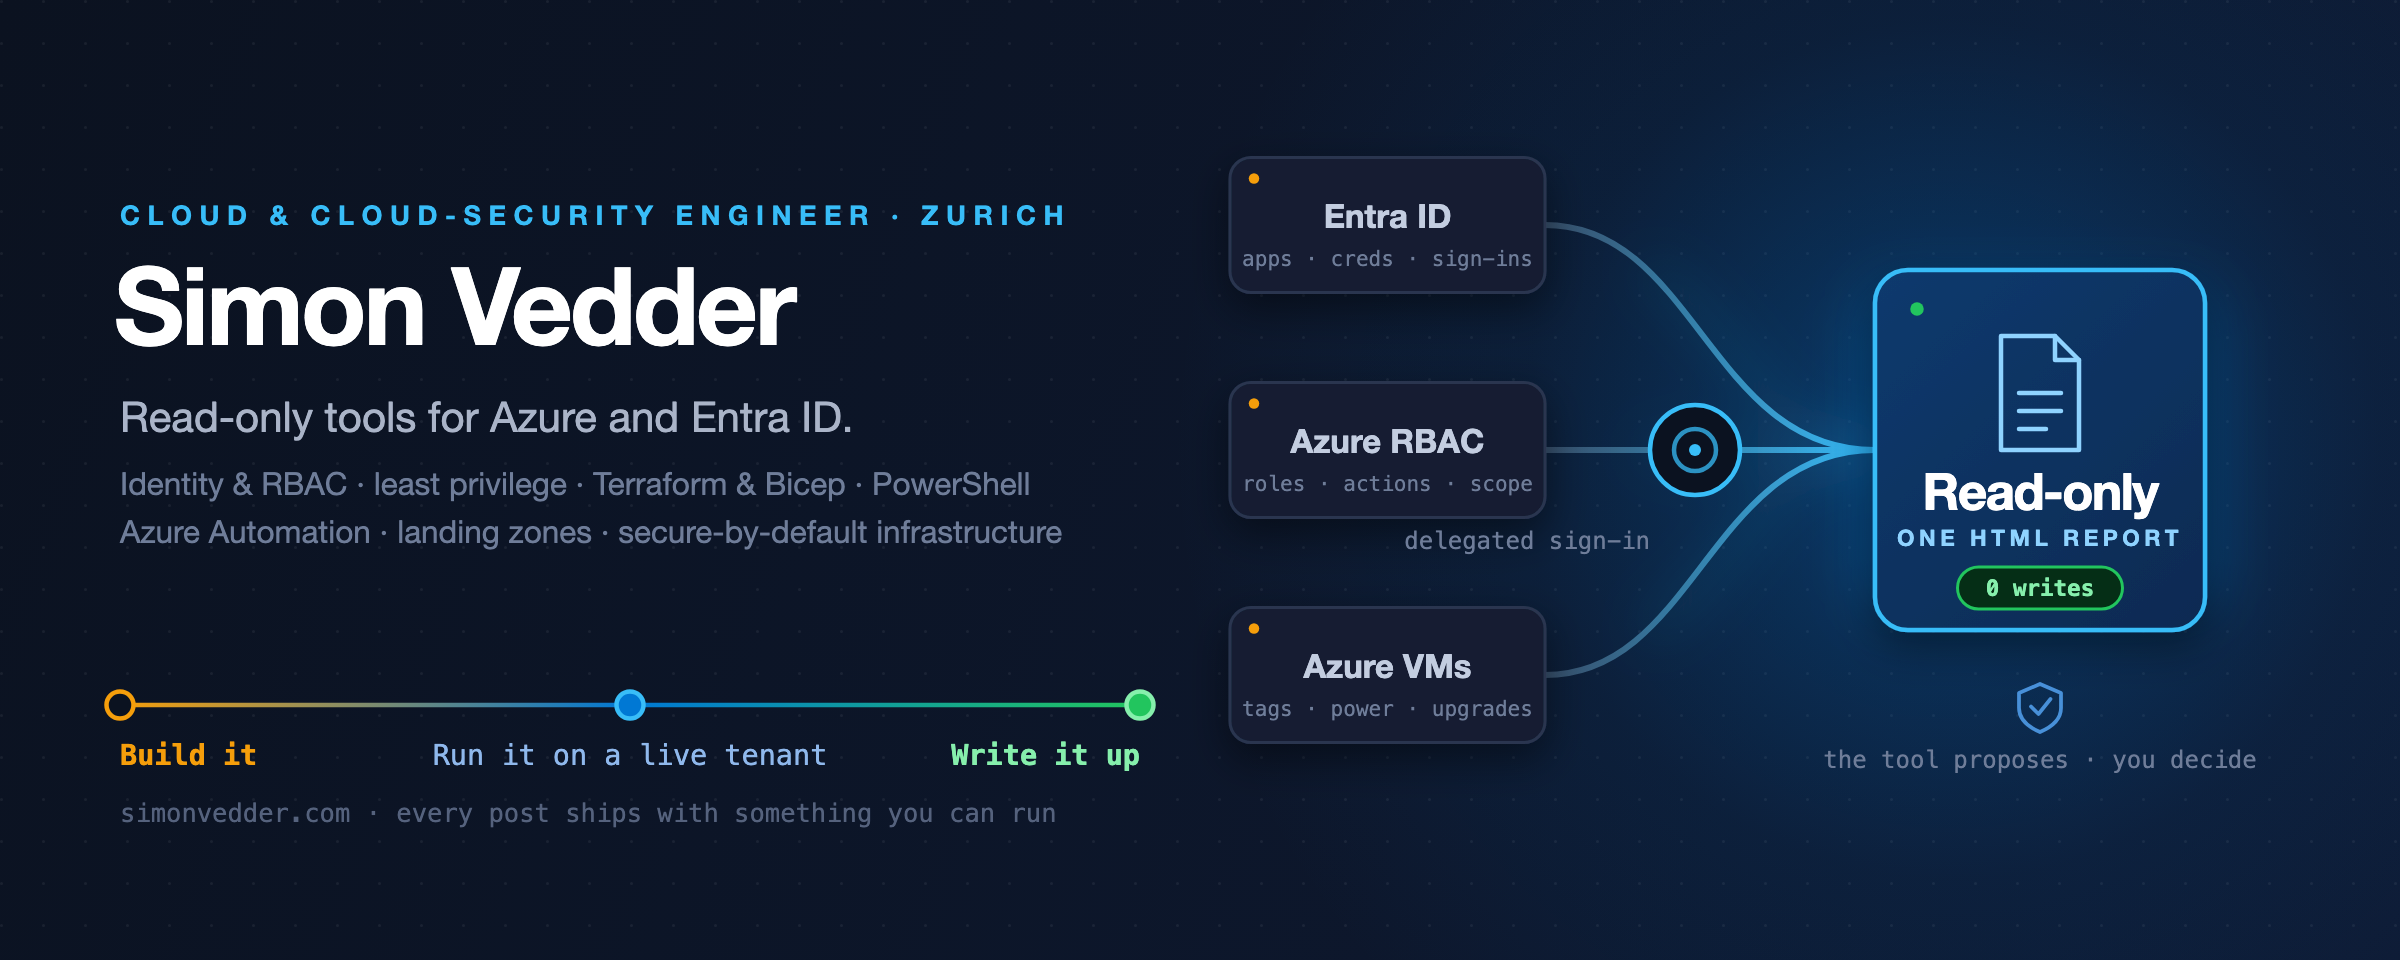
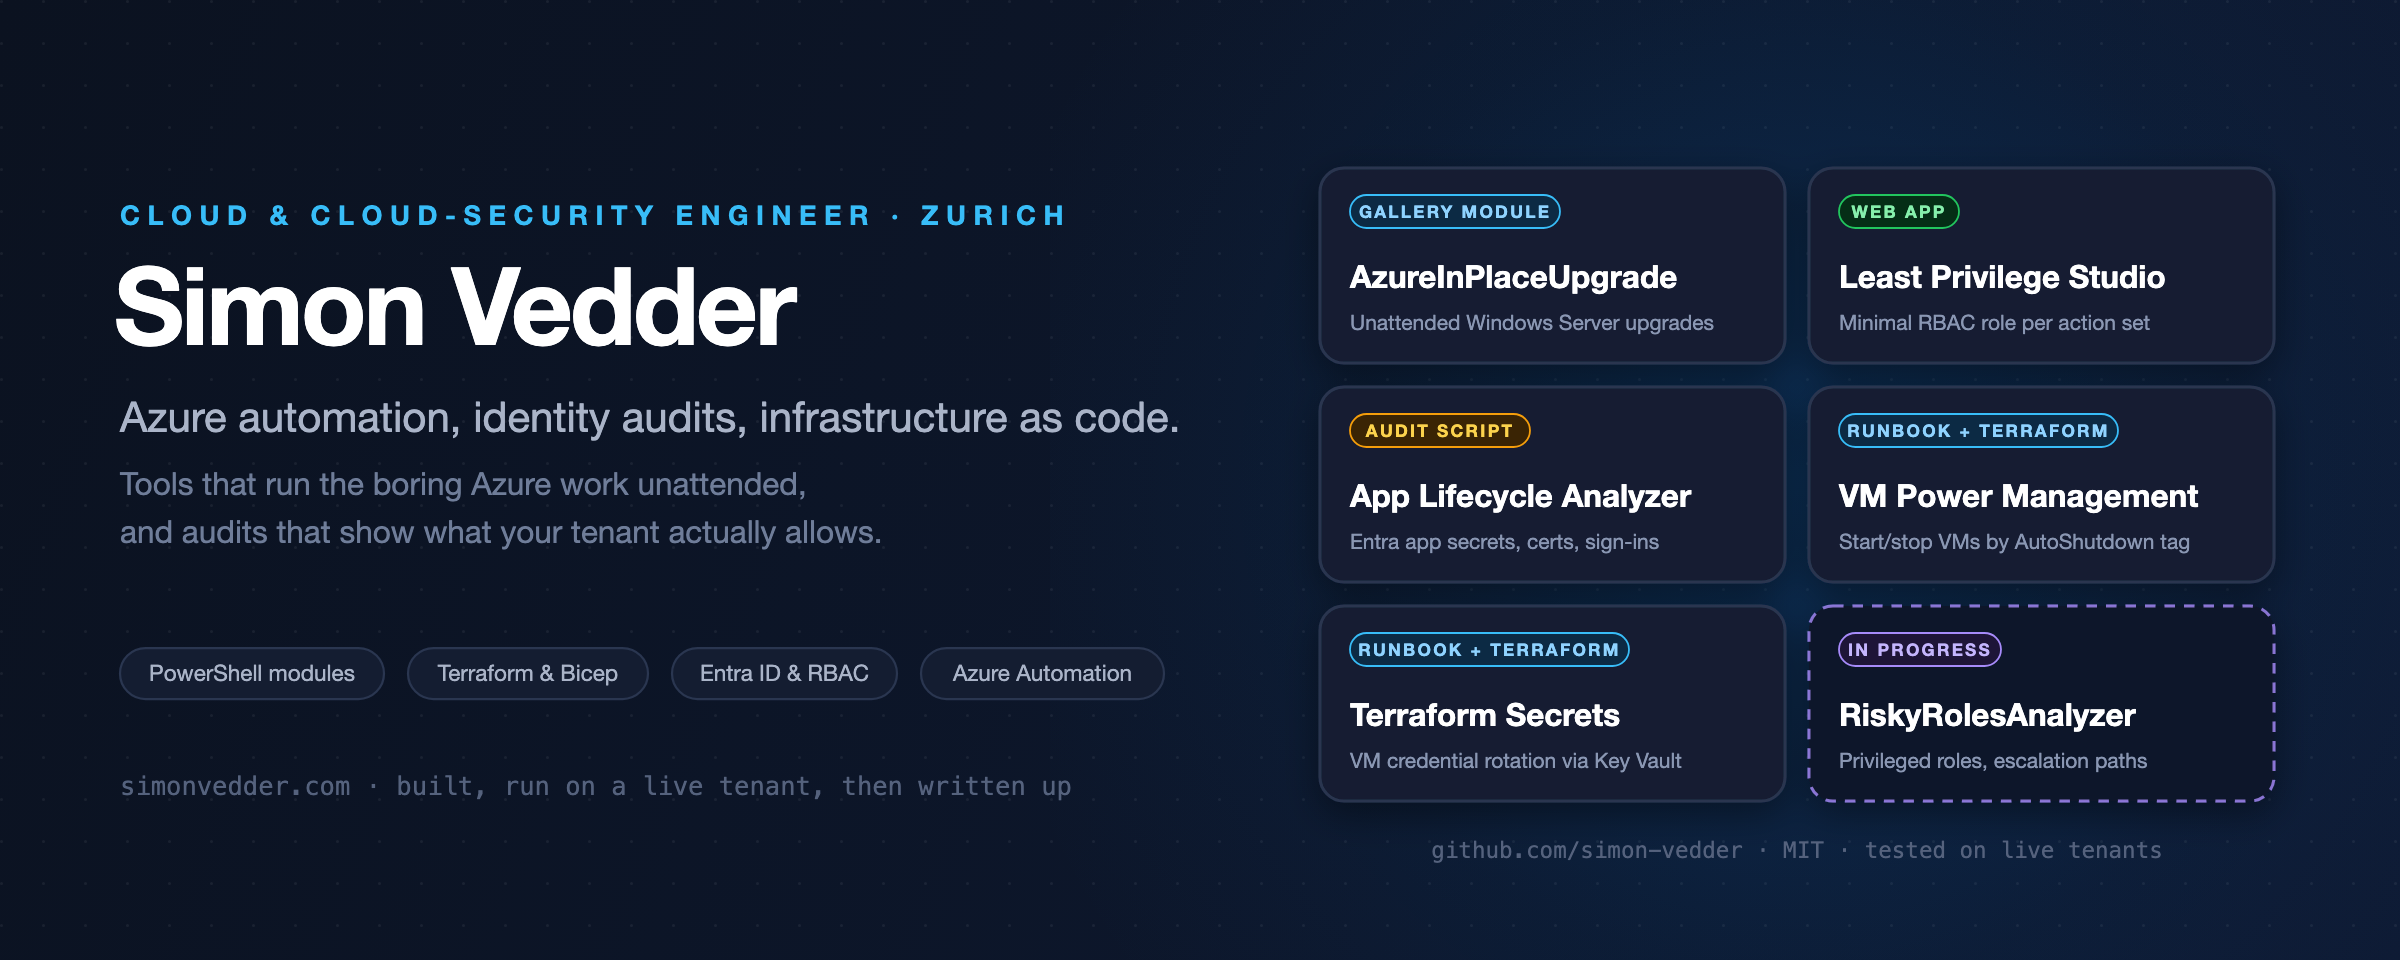
Profile hero v2: portfolio tile grid instead of the tool-hero composition
- Six tiles (Gallery module, web app, audit script, runbook + Terraform, in progress) show the range
- Positioning corrected: automation and audits, not read-only only; README intro and alt text match

diff --git a/docs/images/hero.source.html b/docs/images/hero.source.html
@@ -9,120 +9,94 @@
 </style></head>
 <body>
 <svg xmlns="http://www.w3.org/2000/svg" width="1600" height="640" viewBox="0 0 1600 640">
-
   <defs>
-    <radialGradient id="glow" cx="1300" cy="300" r="520" gradientUnits="userSpaceOnUse">
-      <stop offset="0" stop-color="#0078d4" stop-opacity="0.38"/>
-      <stop offset="0.55" stop-color="#0078d4" stop-opacity="0.08"/>
-      <stop offset="1" stop-color="#0078d4" stop-opacity="0"/>
-    </radialGradient>
     <linearGradient id="bg" x1="0" y1="0" x2="1600" y2="640" gradientUnits="userSpaceOnUse">
       <stop offset="0" stop-color="#0b1220"/>
       <stop offset="1" stop-color="#0e1a33"/>
     </linearGradient>
-    <linearGradient id="beam" x1="1010" y1="0" x2="1250" y2="0" gradientUnits="userSpaceOnUse">
-      <stop offset="0" stop-color="#3b4a63" stop-opacity="0.9"/>
-      <stop offset="1" stop-color="#38bdf8" stop-opacity="1"/>
-    </linearGradient>
-    <linearGradient id="target" x1="1250" y1="180" x2="1470" y2="420" gradientUnits="userSpaceOnUse">
-      <stop offset="0" stop-color="#0f3a6e"/>
-      <stop offset="1" stop-color="#0b2a52"/>
-    </linearGradient>
-    <linearGradient id="chain" x1="80" y1="0" x2="760" y2="0" gradientUnits="userSpaceOnUse">
-      <stop offset="0" stop-color="#f59e0b"/>
-      <stop offset="0.5" stop-color="#0078d4"/>
-      <stop offset="1" stop-color="#22c55e"/>
-    </linearGradient>
+    <radialGradient id="glow" cx="1200" cy="320" r="560" gradientUnits="userSpaceOnUse">
+      <stop offset="0" stop-color="#0078d4" stop-opacity="0.22"/>
+      <stop offset="0.6" stop-color="#0078d4" stop-opacity="0.05"/>
+      <stop offset="1" stop-color="#0078d4" stop-opacity="0"/>
+    </radialGradient>
     <pattern id="dots" width="28" height="28" patternUnits="userSpaceOnUse">
       <circle cx="1" cy="1" r="1" fill="#ffffff" fill-opacity="0.06"/>
     </pattern>
-    <filter id="soft" x="-50%" y="-50%" width="200%" height="200%"><feGaussianBlur stdDeviation="18"/></filter>
     <filter id="shadow" x="-20%" y="-20%" width="140%" height="140%">
-      <feDropShadow dx="0" dy="10" stdDeviation="14" flood-color="#000" flood-opacity="0.45"/>
+      <feDropShadow dx="0" dy="8" stdDeviation="12" flood-color="#000" flood-opacity="0.4"/>
     </filter>
   </defs>
 
   <rect width="1600" height="640" fill="url(#bg)"/>
   <rect width="1600" height="640" fill="url(#dots)"/>
+  <rect x="700" y="-200" width="1000" height="1000" fill="url(#glow)"/>
 
-  <!-- left: positioning -->
+  <!-- left: who -->
   <text x="80" y="150" fill="#38bdf8" font-size="18" font-weight="700" letter-spacing="5">CLOUD  &amp;  CLOUD-SECURITY ENGINEER  ·  ZURICH</text>
   <text x="76" y="230" fill="#ffffff" font-size="72" font-weight="800" letter-spacing="-2">Simon Vedder</text>
-  <text x="80" y="288" fill="#aab4c8" font-size="28" font-weight="400">Read-only tools for Azure and Entra ID.</text>
-  <text x="80" y="330" fill="#6f7d99" font-size="21">Identity &amp; RBAC · least privilege · Terraform &amp; Bicep · PowerShell</text>
-  <text x="80" y="362" fill="#6f7d99" font-size="21">Azure Automation · landing zones · secure-by-default infrastructure</text>
+  <text x="80" y="288" fill="#aab4c8" font-size="28">Azure automation, identity audits, infrastructure as code.</text>
+  <text x="80" y="330" fill="#6f7d99" font-size="21">Tools that run the boring Azure work unattended,</text>
+  <text x="80" y="362" fill="#6f7d99" font-size="21">and audits that show what your tenant actually allows.</text>
 
-  <!-- bottom-left: the process -->
-  <g class="mono" font-size="19">
-    <line x1="80" y1="470" x2="760" y2="470" stroke="url(#chain)" stroke-width="3" stroke-linecap="round"/>
-    <circle cx="80" cy="470" r="9" fill="#0b1220" stroke="#f59e0b" stroke-width="3"/>
-    <text x="80" y="510" fill="#f59e0b" text-anchor="start" font-weight="600">Build it</text>
-    <circle cx="420" cy="470" r="9" fill="#0078d4" stroke="#38bdf8" stroke-width="3"/>
-    <text x="420" y="510" fill="#8fb8ec" text-anchor="middle">Run it on a live tenant</text>
-    <circle cx="760" cy="470" r="9" fill="#22c55e" stroke="#86efac" stroke-width="3"/>
-    <text x="760" y="510" fill="#86efac" text-anchor="end" font-weight="600">Write it up</text>
-    <text x="80" y="548" fill="#55627d" font-size="17">simonvedder.com · every post ships with something you can run</text>
+  <!-- left: stack pills -->
+  <g font-size="15" fill="#aab4c8" text-anchor="middle">
+    <rect x="80" y="432" width="176" height="34" rx="17" fill="#141d31" stroke="#2a3650" stroke-width="1.5"/>
+    <text x="168" y="454">PowerShell modules</text>
+    <rect x="272" y="432" width="160" height="34" rx="17" fill="#141d31" stroke="#2a3650" stroke-width="1.5"/>
+    <text x="352" y="454">Terraform &amp; Bicep</text>
+    <rect x="448" y="432" width="150" height="34" rx="17" fill="#141d31" stroke="#2a3650" stroke-width="1.5"/>
+    <text x="523" y="454">Entra ID &amp; RBAC</text>
+    <rect x="614" y="432" width="162" height="34" rx="17" fill="#141d31" stroke="#2a3650" stroke-width="1.5"/>
+    <text x="695" y="454">Azure Automation</text>
+  </g>
+  <text x="80" y="530" fill="#55627d" font-size="17" class="mono">simonvedder.com · built, run on a live tenant, then written up</text>
+
+  <!-- right: the shelf -->
+  <g id="tiles" filter="url(#shadow)">
+    <rect x="880" y="112" width="310" height="130" rx="16" fill="#141d31" stroke="#2a3650" stroke-width="2"/>
+    <rect x="1206" y="112" width="310" height="130" rx="16" fill="#141d31" stroke="#2a3650" stroke-width="2"/>
+    <rect x="880" y="258" width="310" height="130" rx="16" fill="#141d31" stroke="#2a3650" stroke-width="2"/>
+    <rect x="1206" y="258" width="310" height="130" rx="16" fill="#141d31" stroke="#2a3650" stroke-width="2"/>
+    <rect x="880" y="404" width="310" height="130" rx="16" fill="#141d31" stroke="#2a3650" stroke-width="2"/>
+    <rect x="1206" y="404" width="310" height="130" rx="16" fill="#0f1729" stroke="#a78bfa" stroke-width="2" stroke-dasharray="7 6" stroke-opacity="0.8"/>
   </g>
 
-  <!-- right: three sources, one read-only report -->
-  <g>
-    <rect x="700" y="-200" width="1000" height="1000" fill="url(#glow)"/>
-    <g fill="none" stroke="url(#beam)" stroke-width="4" stroke-linecap="round">
-      <path d="M1030,150 C1130,150 1140,300 1250,300"/>
-      <path d="M1030,300 C1130,300 1140,300 1250,300"/>
-      <path d="M1030,450 C1130,450 1140,300 1250,300"/>
-    </g>
-    <g fill="none" stroke="#38bdf8" stroke-width="10" stroke-opacity="0.18" stroke-linecap="round" filter="url(#soft)">
-      <path d="M1100,180 C1160,220 1180,300 1250,300"/>
-      <path d="M1100,300 C1160,300 1180,300 1250,300"/>
-      <path d="M1100,420 C1160,380 1180,300 1250,300"/>
-    </g>
-    <g filter="url(#shadow)">
-      <rect x="820" y="105" width="210" height="90" rx="14" fill="#141d31" stroke="#2a3650" stroke-width="2"/>
-      <rect x="820" y="255" width="210" height="90" rx="14" fill="#141d31" stroke="#2a3650" stroke-width="2"/>
-      <rect x="820" y="405" width="210" height="90" rx="14" fill="#141d31" stroke="#2a3650" stroke-width="2"/>
-    </g>
-    <g fill="#c3cde0" font-size="22" font-weight="700" text-anchor="middle">
-      <text x="925" y="152">Entra ID</text>
-      <text x="925" y="302">Azure RBAC</text>
-      <text x="925" y="452">Azure VMs</text>
-    </g>
-    <g fill="#6f7d99" font-size="14" text-anchor="middle" class="mono">
-      <text x="925" y="177">apps · creds · sign-ins</text>
-      <text x="925" y="327">roles · actions · scope</text>
-      <text x="925" y="477">tags · power · upgrades</text>
-    </g>
-    <g fill="#f59e0b">
-      <circle cx="836" cy="119" r="3.5"/><circle cx="836" cy="269" r="3.5"/><circle cx="836" cy="419" r="3.5"/>
-    </g>
-    <g transform="translate(1130,300)">
-      <circle cx="0" cy="0" r="30" fill="#0b1220" stroke="#38bdf8" stroke-width="3"/>
-      <circle cx="0" cy="0" r="14" fill="none" stroke="#38bdf8" stroke-width="3" stroke-opacity="0.75"/>
-      <circle cx="0" cy="0" r="4" fill="#38bdf8"/>
-    </g>
-    <text x="1100" y="366" fill="#6f7d99" font-size="16" text-anchor="end" class="mono">delegated sign-in</text>
-    <rect x="1240" y="190" width="240" height="220" rx="26" fill="#0078d4" fill-opacity="0.35" filter="url(#soft)"/>
-    <g filter="url(#shadow)">
-      <rect x="1250" y="180" width="220" height="240" rx="22" fill="url(#target)" stroke="#38bdf8" stroke-width="3"/>
-    </g>
-    <circle cx="1278" cy="206" r="4.5" fill="#22c55e"/>
-    <!-- document glyph -->
-    <g transform="translate(1360,262)" fill="none" stroke="#8fd3ff" stroke-width="3" stroke-linejoin="round" stroke-linecap="round">
-      <path d="M-26,-38 H10 L26,-22 V38 H-26 Z"/>
-      <path d="M10,-38 V-22 H26"/>
-      <line x1="-14" y1="0" x2="14" y2="0"/>
-      <line x1="-14" y1="12" x2="14" y2="12"/>
-      <line x1="-14" y1="24" x2="4" y2="24"/>
-    </g>
-    <text x="1360" y="340" fill="#ffffff" font-size="34" font-weight="800" text-anchor="middle" letter-spacing="-1">Read-only</text>
-    <text x="1360" y="364" fill="#8fd3ff" font-size="15" text-anchor="middle" letter-spacing="3" font-weight="600">ONE HTML REPORT</text>
-    <rect x="1305" y="378" width="110" height="28" rx="14" fill="#052e16" stroke="#22c55e" stroke-width="2"/>
-    <text x="1360" y="397" fill="#86efac" font-size="15" text-anchor="middle" class="mono" font-weight="600">0 writes</text>
-    <g transform="translate(1360,470)" fill="none" stroke="#4f9be8" stroke-width="2.5" stroke-opacity="0.9" stroke-linecap="round" stroke-linejoin="round">
-      <path d="M0,-14 L14,-8 V2 C14,10 7,15 0,18 C-7,15 -14,10 -14,2 V-8 Z"/>
-      <path d="M-6,1 L-1,6 L7,-4"/>
-    </g>
-    <text x="1360" y="512" fill="#6f7d99" font-size="16" text-anchor="middle" class="mono">the tool proposes · you decide</text>
-  </g>
+  <!-- tile 1: AzureInPlaceUpgrade -->
+  <rect x="900" y="130" width="140" height="22" rx="11" fill="#0c2a44" stroke="#38bdf8" stroke-width="1.2"/>
+  <text x="970" y="145" fill="#8fd3ff" font-size="11.5" font-weight="700" letter-spacing="1.5" text-anchor="middle">GALLERY MODULE</text>
+  <text x="900" y="192" fill="#ffffff" font-size="21" font-weight="700">AzureInPlaceUpgrade</text>
+  <text x="900" y="220" fill="#8a97b3" font-size="14">Unattended Windows Server upgrades</text>
+
+  <!-- tile 2: Least Privilege Studio -->
+  <rect x="1226" y="130" width="80" height="22" rx="11" fill="#052e16" stroke="#22c55e" stroke-width="1.2"/>
+  <text x="1266" y="145" fill="#86efac" font-size="11.5" font-weight="700" letter-spacing="1.5" text-anchor="middle">WEB APP</text>
+  <text x="1226" y="192" fill="#ffffff" font-size="21" font-weight="700">Least Privilege Studio</text>
+  <text x="1226" y="220" fill="#8a97b3" font-size="14">Minimal RBAC role per action set</text>
+
+  <!-- tile 3: App Lifecycle Analyzer -->
+  <rect x="900" y="276" width="120" height="22" rx="11" fill="#3a2404" stroke="#f59e0b" stroke-width="1.2"/>
+  <text x="960" y="291" fill="#fcd34d" font-size="11.5" font-weight="700" letter-spacing="1.5" text-anchor="middle">AUDIT SCRIPT</text>
+  <text x="900" y="338" fill="#ffffff" font-size="21" font-weight="700">App Lifecycle Analyzer</text>
+  <text x="900" y="366" fill="#8a97b3" font-size="14">Entra app secrets, certs, sign-ins</text>
+
+  <!-- tile 4: VM Power Management -->
+  <rect x="1226" y="276" width="186" height="22" rx="11" fill="#0c2a44" stroke="#38bdf8" stroke-width="1.2"/>
+  <text x="1319" y="291" fill="#8fd3ff" font-size="11.5" font-weight="700" letter-spacing="1.5" text-anchor="middle">RUNBOOK + TERRAFORM</text>
+  <text x="1226" y="338" fill="#ffffff" font-size="21" font-weight="700">VM Power Management</text>
+  <text x="1226" y="366" fill="#8a97b3" font-size="14">Start/stop VMs by AutoShutdown tag</text>
+
+  <!-- tile 5: Terraform Secrets -->
+  <rect x="900" y="422" width="186" height="22" rx="11" fill="#0c2a44" stroke="#38bdf8" stroke-width="1.2"/>
+  <text x="993" y="437" fill="#8fd3ff" font-size="11.5" font-weight="700" letter-spacing="1.5" text-anchor="middle">RUNBOOK + TERRAFORM</text>
+  <text x="900" y="484" fill="#ffffff" font-size="21" font-weight="700">Terraform Secrets</text>
+  <text x="900" y="512" fill="#8a97b3" font-size="14">VM credential rotation via Key Vault</text>
+
+  <!-- tile 6: RiskyRolesAnalyzer (in progress) -->
+  <rect x="1226" y="422" width="108" height="22" rx="11" fill="#1e1538" stroke="#a78bfa" stroke-width="1.2"/>
+  <text x="1280" y="437" fill="#c4b5fd" font-size="11.5" font-weight="700" letter-spacing="1.5" text-anchor="middle">IN PROGRESS</text>
+  <text x="1226" y="484" fill="#ffffff" font-size="21" font-weight="700">RiskyRolesAnalyzer</text>
+  <text x="1226" y="512" fill="#8a97b3" font-size="14">Privileged roles, escalation paths</text>
+
+  <text x="1198" y="572" fill="#55627d" font-size="15" text-anchor="middle" class="mono">github.com/simon-vedder · MIT · tested on live tenants</text>
 </svg>
 </body></html>

diff --git a/README.md b/README.md
@@ -1,4 +1,4 @@
-<p align="center"><img src="docs/images/hero.png" alt="Simon Vedder, cloud and cloud-security engineer in Zurich. Read-only tools for Azure and Entra ID: build it, run it on a live tenant, write it up." width="100%"></p>
+<p align="center"><img src="docs/images/hero.png" alt="Simon Vedder, cloud and cloud-security engineer in Zurich. Azure automation, identity audits, infrastructure as code: AzureInPlaceUpgrade, Least Privilege Studio, App Lifecycle Analyzer, VM Power Management, Terraform Secrets, RiskyRolesAnalyzer." width="100%"></p>
 
 <p align="center">
   <a href="https://simonvedder.com"><img src="https://img.shields.io/badge/blog-simonvedder.com-FF6B35" alt="Blog"></a>
@@ -7,9 +7,9 @@
 </p>
 
 **Cloud & cloud-security engineer near Zurich.** I work across Azure platform engineering and cloud
-security, with a focus on Microsoft Entra ID, RBAC and infrastructure-as-code. The tools below are
-small and read-only by default, tested against live tenants, and written up at
-**[simonvedder.com](https://simonvedder.com)**.
+security, with a focus on Microsoft Entra ID, RBAC and infrastructure-as-code. Some of the tools below
+run tedious Azure work unattended, the others audit what a tenant actually allows. All of them are
+tested against live tenants before they're written up at **[simonvedder.com](https://simonvedder.com)**.
 
 ## Tools
 
